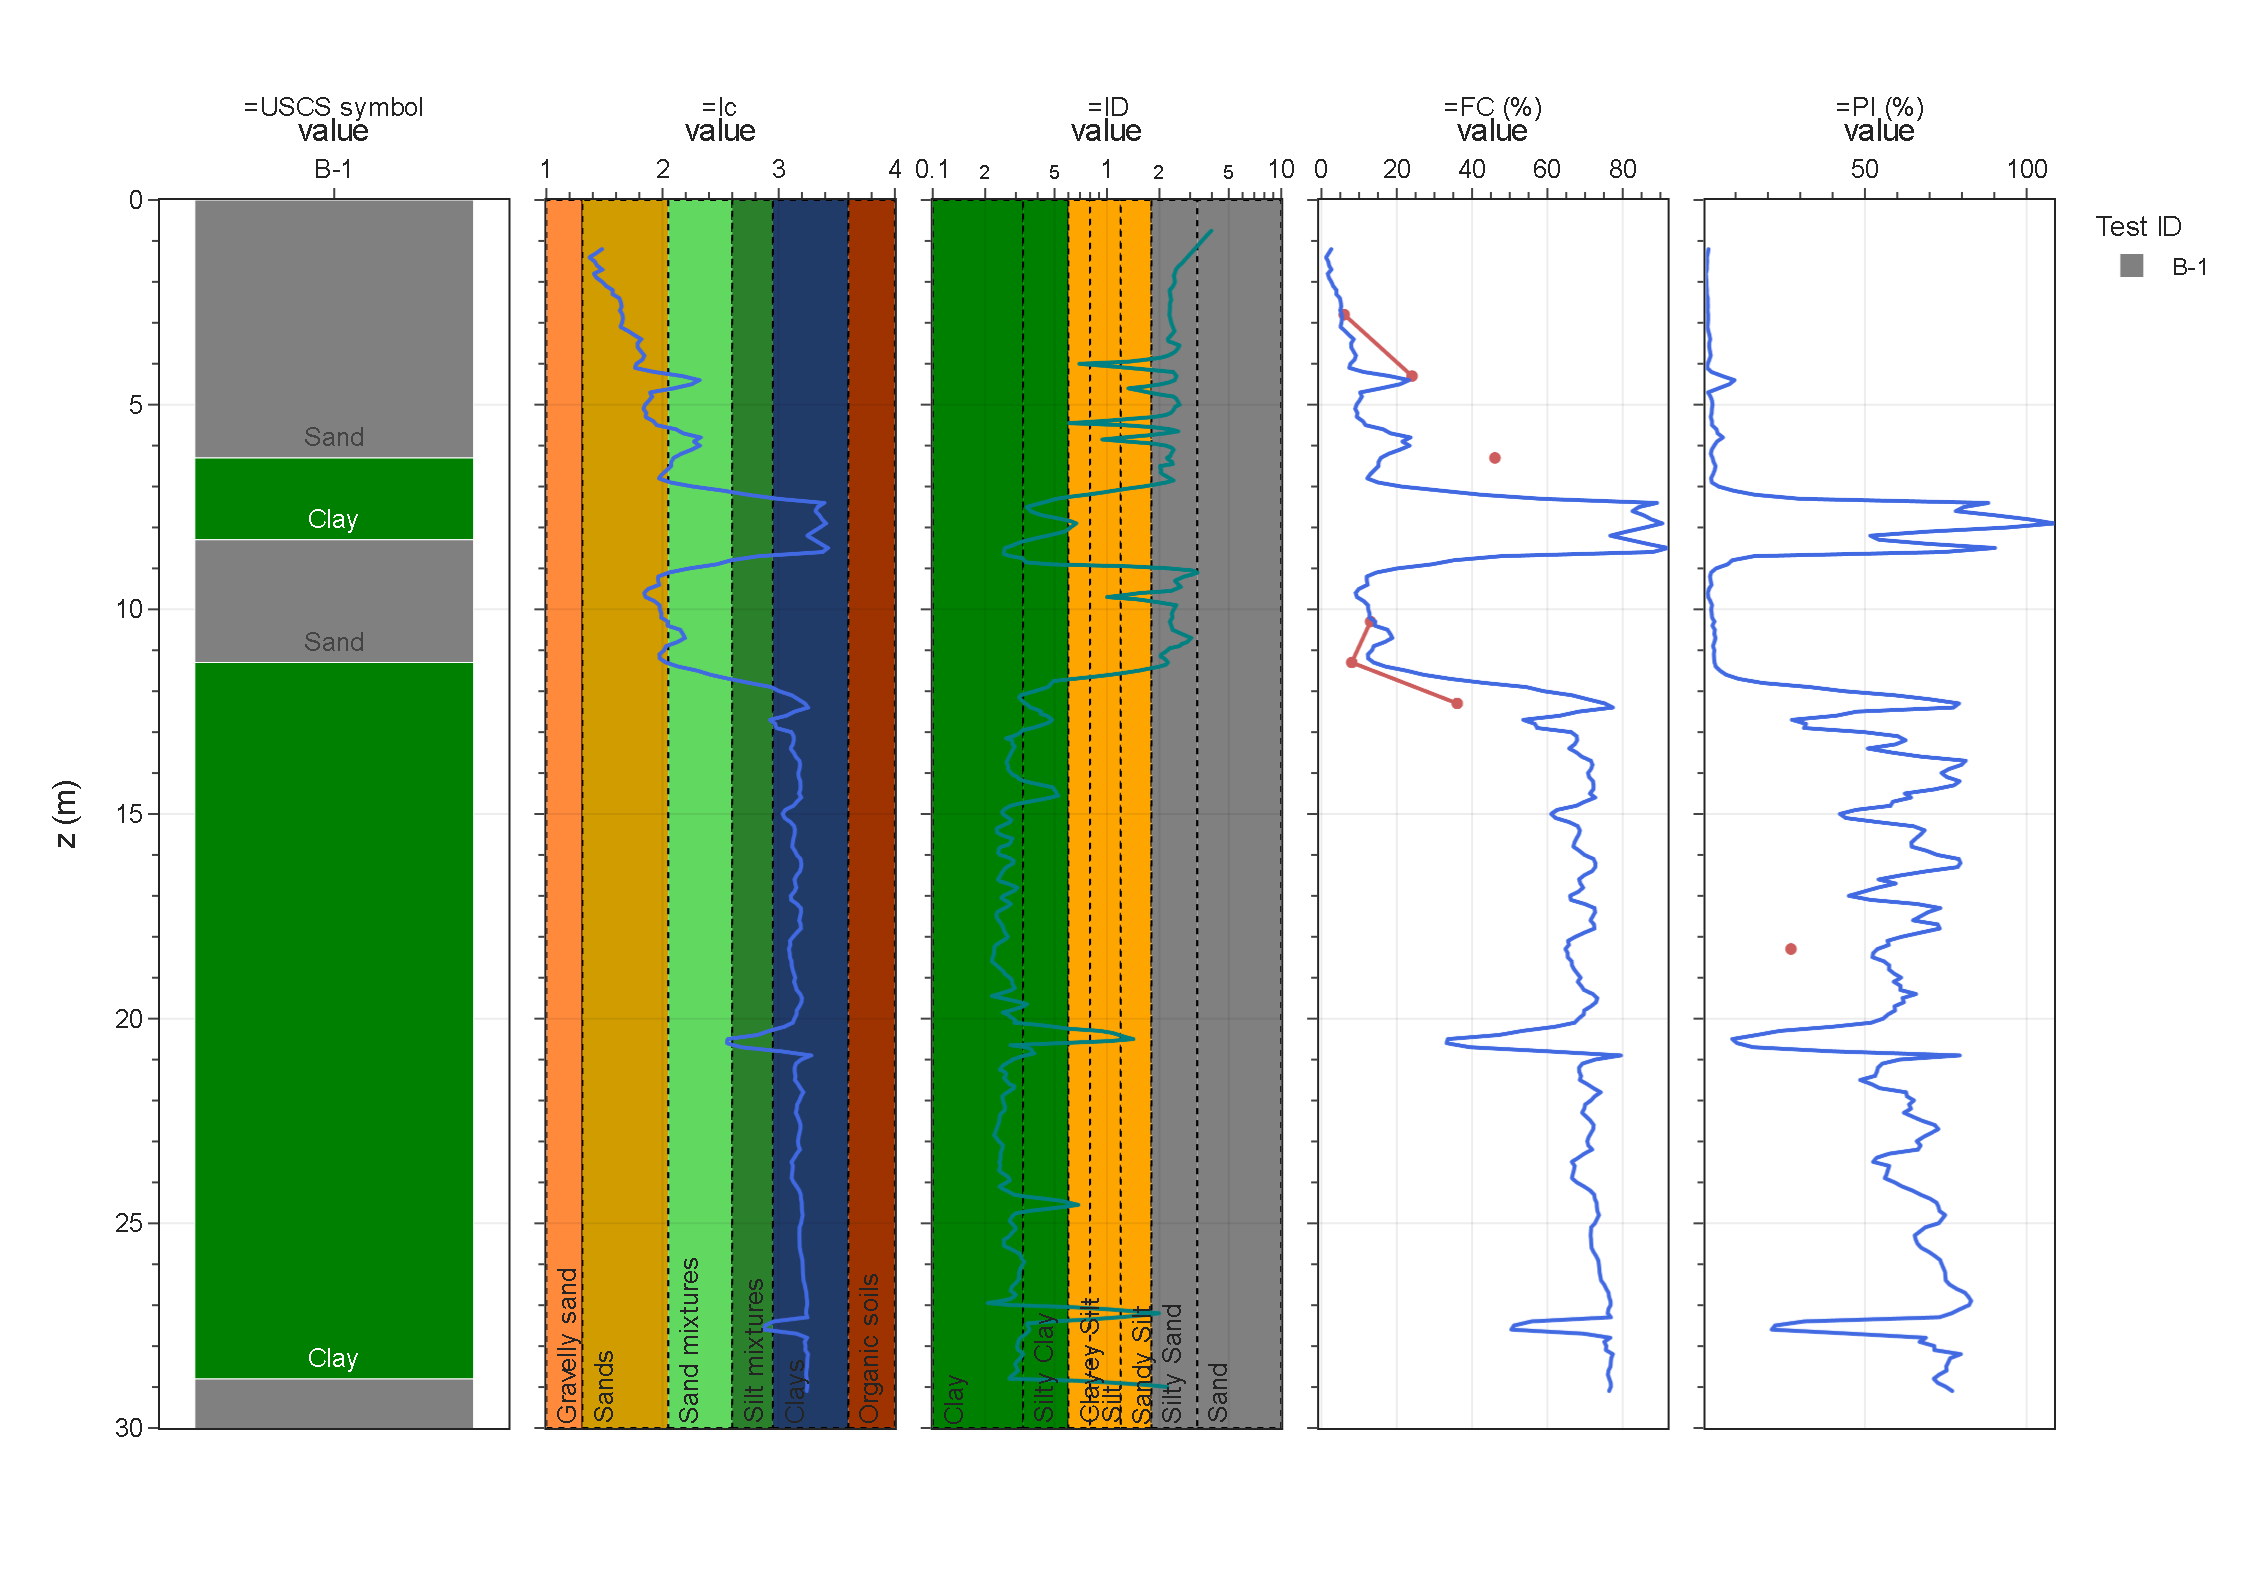
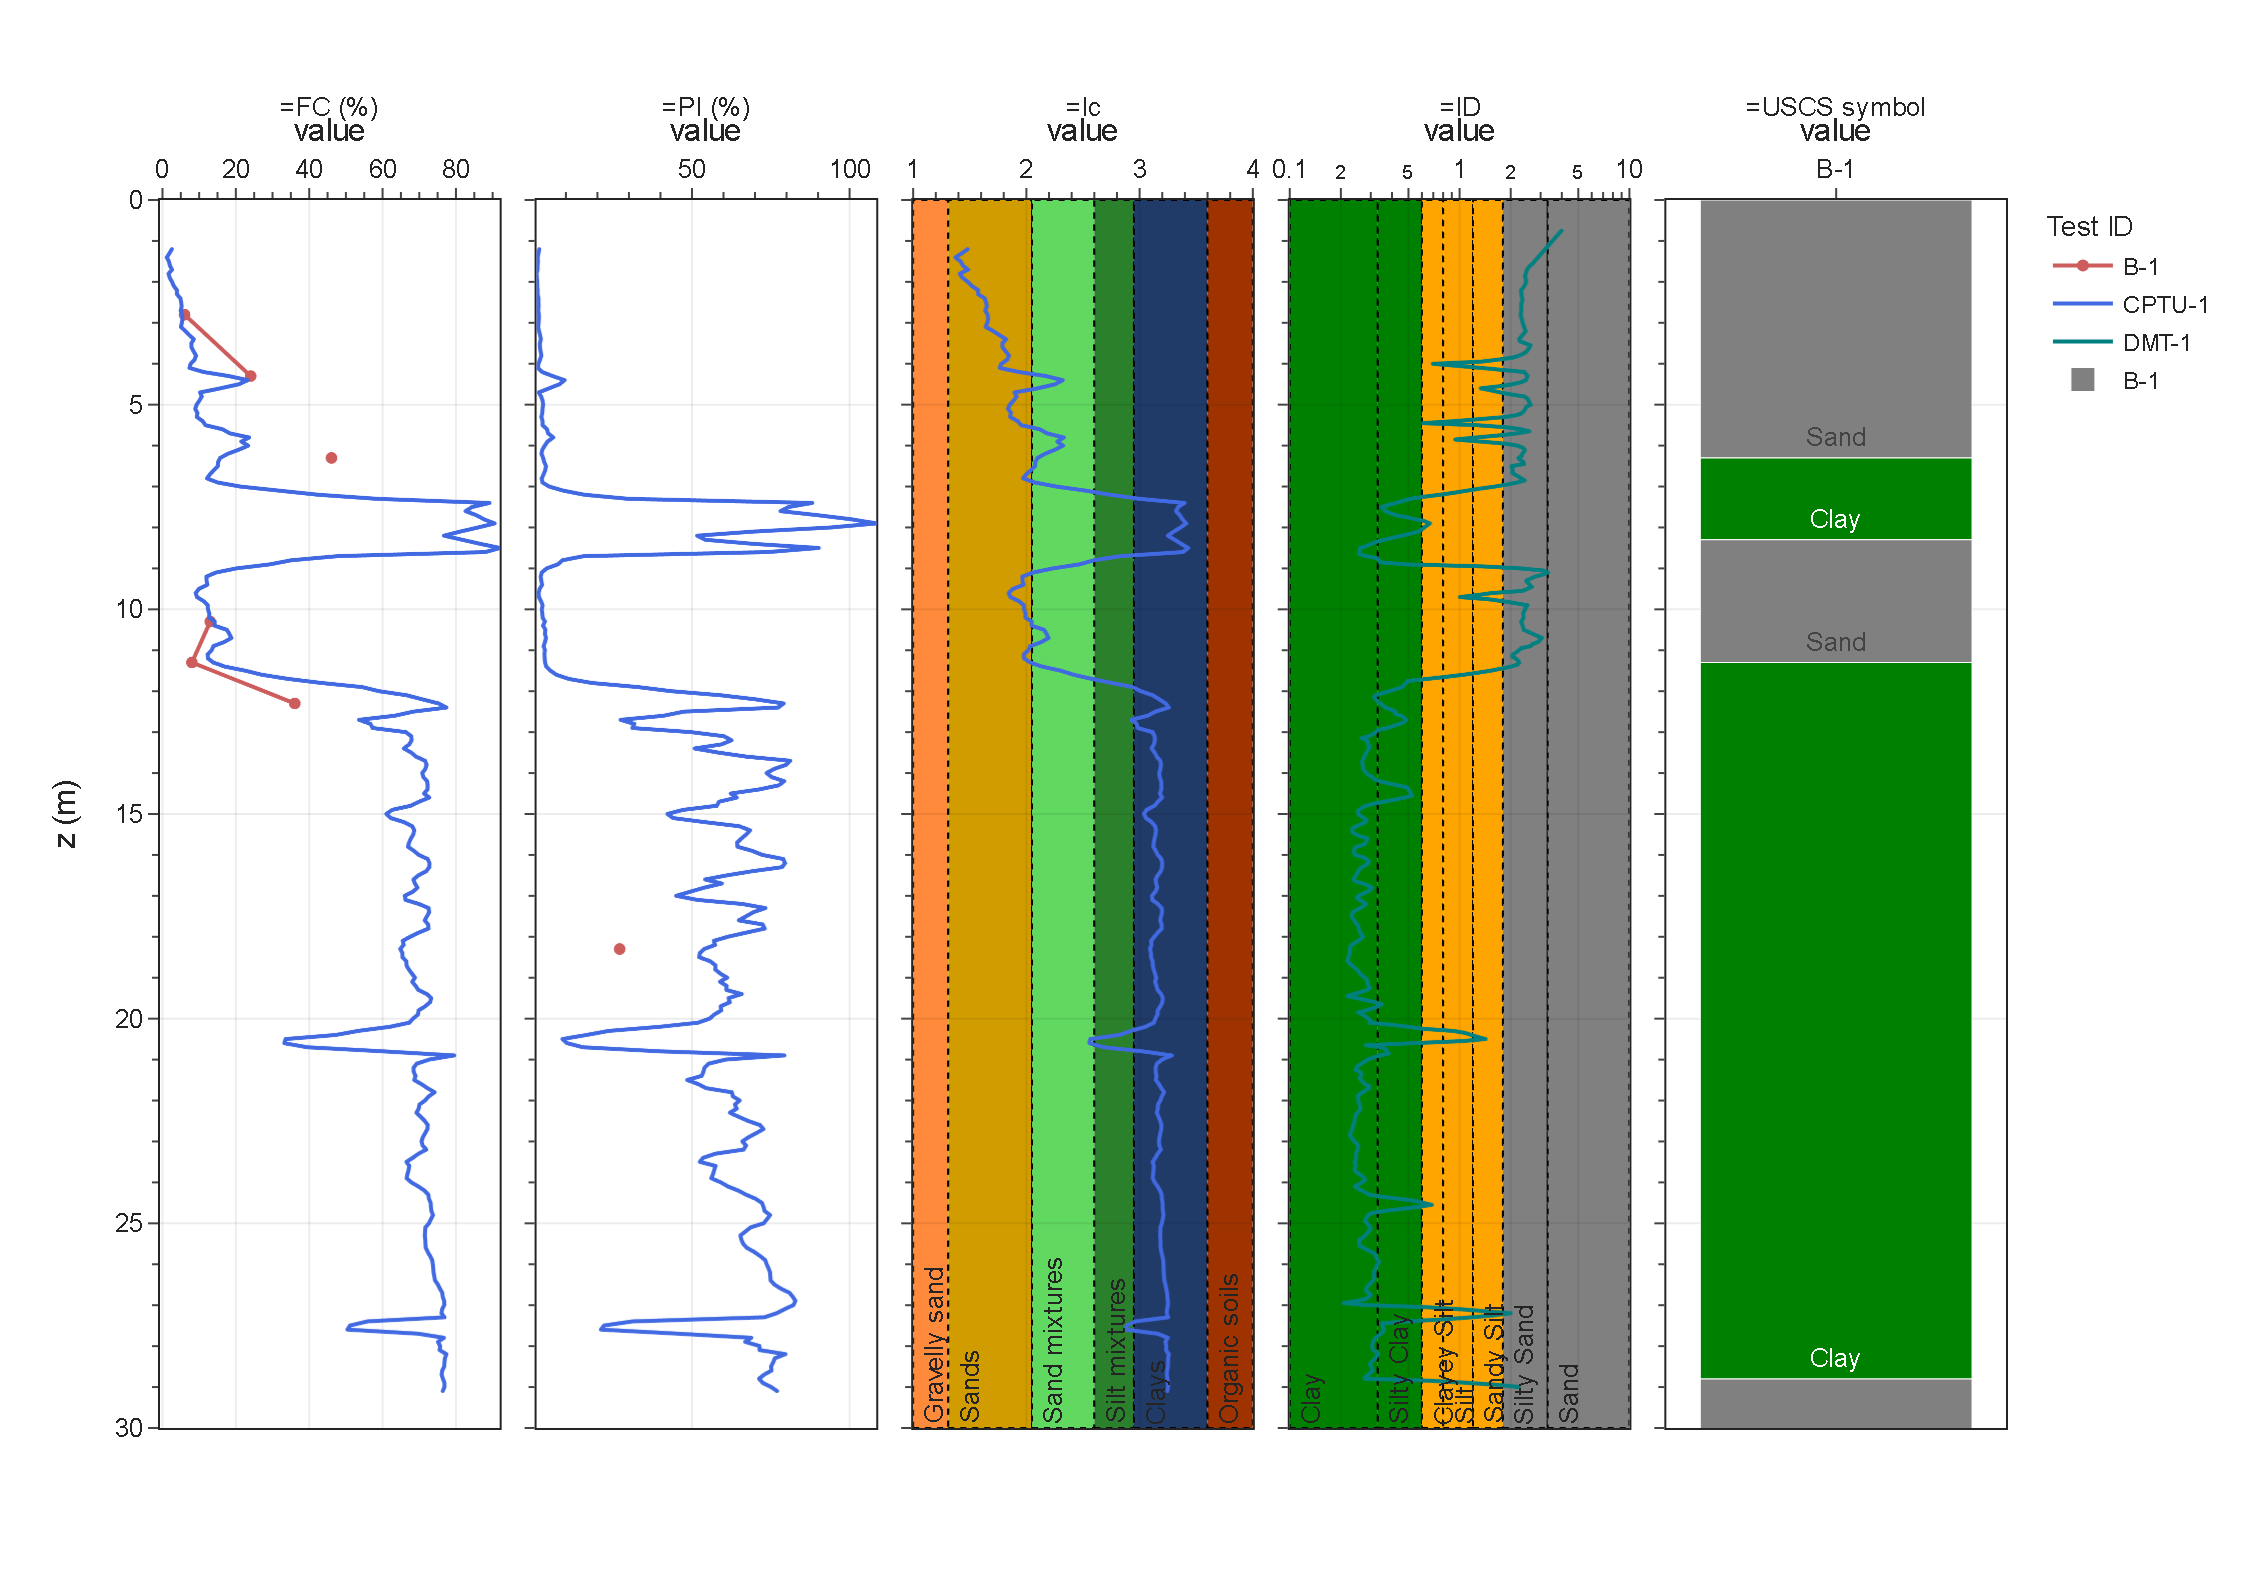
Merge remote-tracking branch 'origin/master'

diff --git a/docs/gallery/index.md b/docs/gallery/index.md
@@ -1,12 +1,13 @@
 ---
 title: Gallery
-description: Filled logs, interpretation plots, and liquefaction profiles from open site data.
+description: Filled logs, interpretation plots, DXF cross-sections, and liquefaction profiles from open site data.
 ---
 
 # Gallery
 
-Filled logs, interpretation plots, and liquefaction profiles from open site
-data. Empty chart templates, hatches, and named registries live in the
+Filled logs, interpretation plots, DXF cross-sections, and liquefaction
+profiles from open site data. Empty chart templates, hatches, and named
+registries live in the
 [catalog](../catalog/index.md). Try the same workflows in the
 [web app](https://subsurfaceio.app/){:target="_blank"}.
 
@@ -64,6 +65,16 @@ Classification and index:
 Strength and stiffness:
 
 ![Treasure Island interpreted strength and stiffness](../assets/gallery/treasure-island-interpretation-strength.png){: .gallery-still }
+
+## Cross-section
+
+### DXF section — Treasure Island
+
+The same four tests on an elevation CAD export with default column templates:
+strata and N60/fines, CPT sleeve friction, tip, and Ic, DMT P0/P1/P2 and
+material index, and downhole Vs (Pass et al. 1994; Gibbs et al. 1992 USGS).
+
+![Treasure Island DXF cross-section](../assets/gallery/treasure-island-cross-section.png){: .gallery-still }
 
 ## Liquefaction
 

diff --git a/docs/features.md b/docs/features.md
@@ -33,6 +33,7 @@ in-situ tests, laboratory specimens, and field strata.
 - [IO and export](reference/subsurfaceio/site_investigation/io/): Excel,
   CPeT-IT Excel, AGS (including Next-Generation Liquefaction), KML maps, DXF
   maps, and DXF [cross-sections](reference/subsurfaceio/cross_section/).
+  A filled cross-section is in the [gallery](gallery/index.md).
 - Example [datasets](reference/subsurfaceio/datasets/) and generic
   [file helpers](reference/subsurfaceio/io/).
 
@@ -85,5 +86,5 @@ in-situ tests, laboratory specimens, and field strata.
 ## Catalogs and project data
 
 Named parameters, references, datasets, and graphics are in the
-[catalog](catalog/index.md). Filled logs and plots are in the
-[gallery](gallery/index.md).
+[catalog](catalog/index.md). Filled logs, plots, and cross-sections are in
+the [gallery](gallery/index.md).
